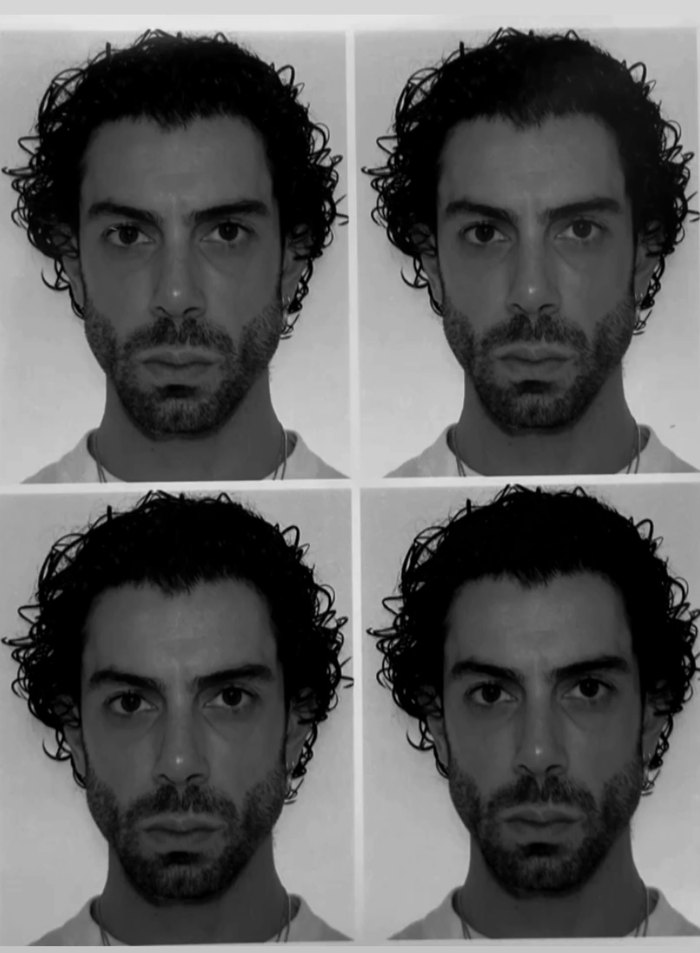
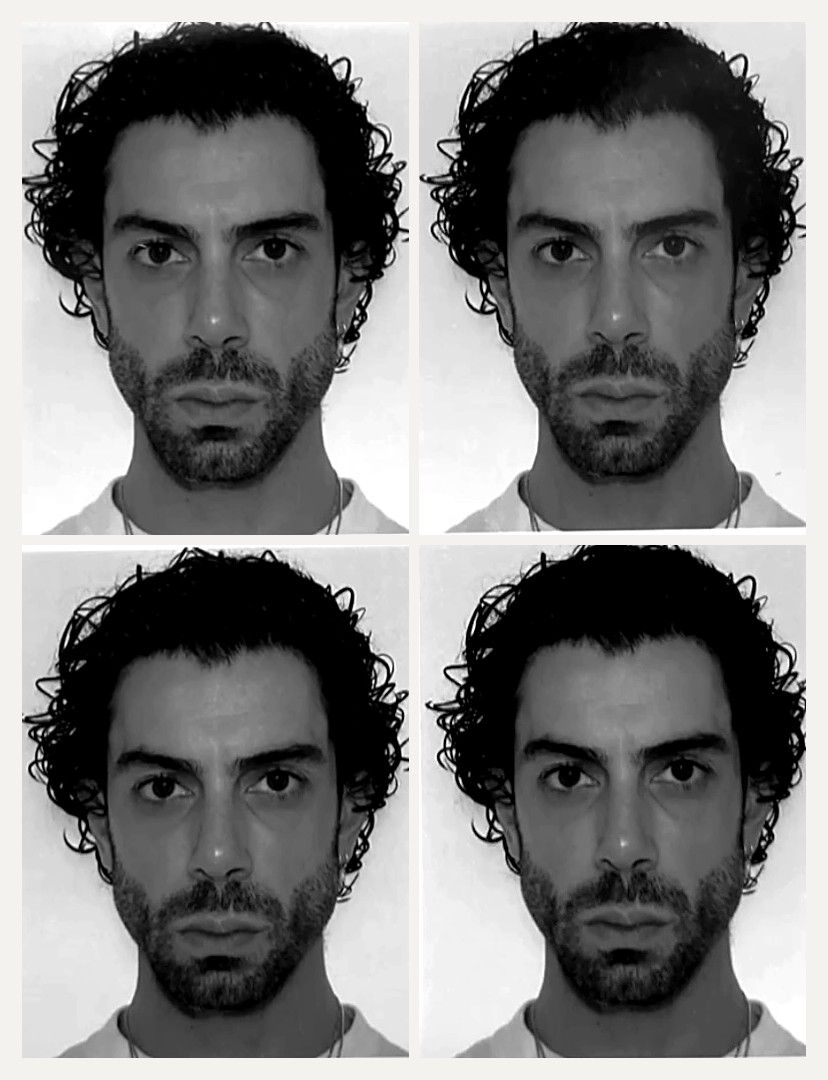
Refonte DA : nouvelle direction artistique, visuels finaux, nouveaux articles

diff --git a/pages/adrienpons.html b/pages/adrienpons.html
@@ -57,13 +57,13 @@
       <p class="mono"><span>Adrien Pons</span><span>Styliste · personal shopper · vintage dealer</span><span>Paris</span></p>
       <h1>Un fil. Plusieurs formes.</h1>
     </div>
-    <div class="aside portrait"><img src="../images/adrien-pons-photomaton.jpg" alt="Photomaton d'Adrien Pons, styliste à Paris" width="700" height="953"><p>Plusieurs métiers en apparence. La même matière, regardée sous différents angles : chercher, observer, comprendre, trouver.</p></div>
+    <div class="aside portrait"><img src="../images/adrien-pons-photomaton.jpg" alt="Photomaton d'Adrien Pons, styliste à Paris" width="828" height="1080"><p>Plusieurs métiers en apparence. La même matière, regardée sous différents angles : chercher, observer, comprendre, trouver.</p></div>
   </header>
   <style>
-    .page-head .portrait { display: flex; gap: 22px; align-items: flex-end; max-width: 540px; }
-    .page-head .portrait img { width: 210px; height: auto; display: block; }
+    .page-head .portrait { display: flex; gap: 28px; align-items: flex-end; max-width: 620px; }
+    .page-head .portrait img { width: 290px; height: auto; display: block; transform: rotate(-1.2deg); box-shadow: 0 18px 40px rgba(0,0,0,.55), 0 2px 6px rgba(0,0,0,.4); }
     .page-head .portrait p { margin: 0; }
-    @media (max-width: 760px) { .page-head .portrait { flex-direction: column; align-items: flex-start; } .page-head .portrait img { width: 70%; } }
+    @media (max-width: 760px) { .page-head .portrait { flex-direction: column; align-items: flex-start; gap: 22px; } .page-head .portrait img { width: 78%; max-width: 320px; } }
   </style>
 
   <ol class="thread">
